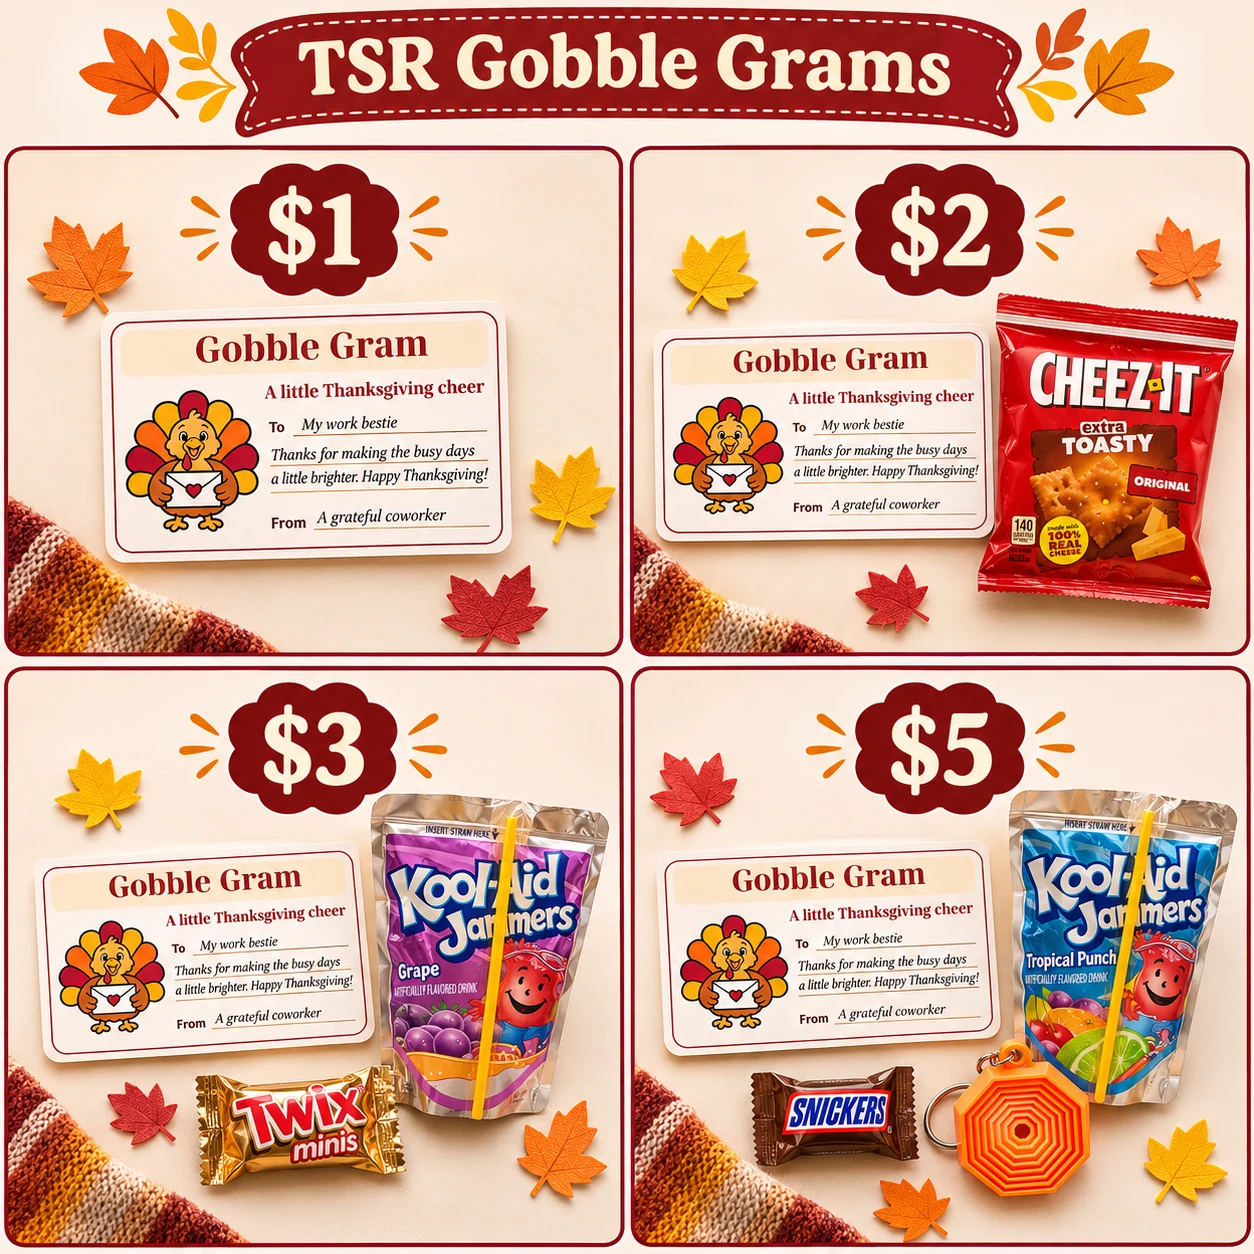
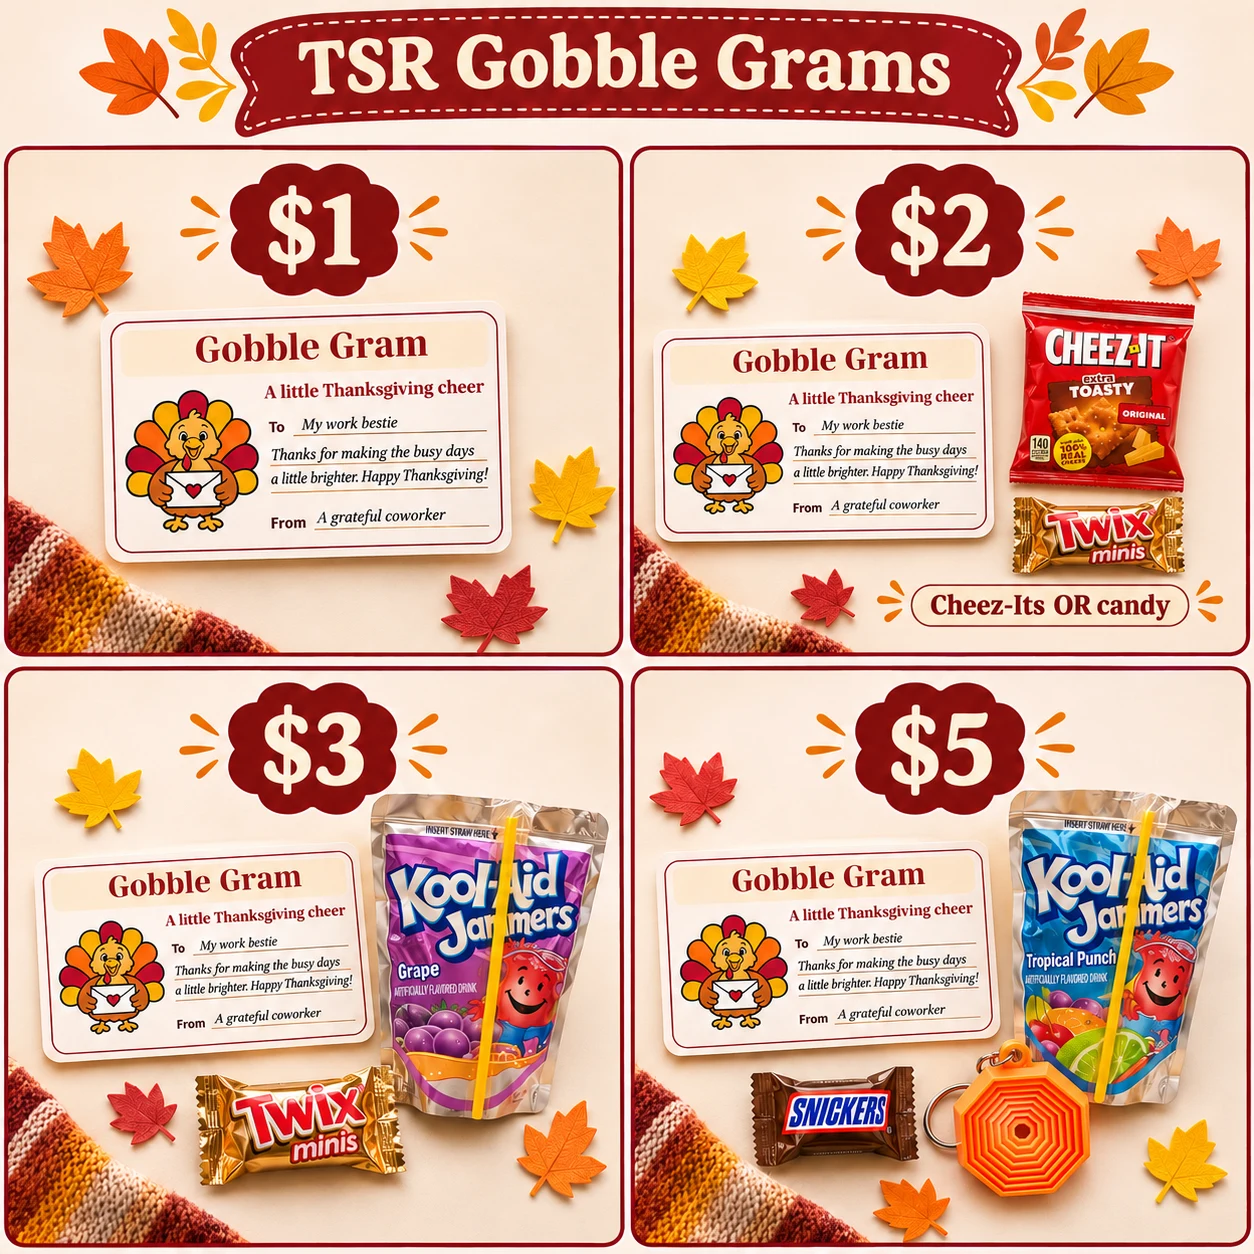
Show Cheez-Its OR candy in approved $2 preview and wording

diff --git a/index.html b/index.html
@@ -56,15 +56,15 @@
 </style>
 <h2>Choose your Gobble Gram</h2>
 <figure class="tsr-approved-preview" style="margin:20px 0 28px">
-<a href="tsr-approved-gobble-preview.webp" target="_blank" rel="noopener" aria-label="Open the approved Gobble Gram package illustration full size">
-<img src="tsr-approved-gobble-preview.webp" width="1254" height="1254" alt="Illustrated Gobble Gram examples: $1 message, $2 message and Cheez-Its, $3 message with candy and a drink, and $5 message with candy, drink and a 3D printed keychain." style="display:block;width:100%;height:auto;max-width:1000px;margin:auto;border-radius:20px" loading="eager">
+<a href="tsr-approved-gobble-preview.webp?v=2" target="_blank" rel="noopener" aria-label="Open the approved Gobble Gram package illustration full size">
+<img src="tsr-approved-gobble-preview.webp?v=2" width="1254" height="1254" alt="Illustrated Gobble Gram examples: $1 message, $2 message with a choice of Cheez-Its or candy, $3 message with candy and a drink, and $5 message with candy, drink and a 3D printed keychain." style="display:block;width:100%;height:auto;max-width:1000px;margin:auto;border-radius:20px" loading="eager">
 </a>
 <figcaption style="font-size:.9rem;line-height:1.5;text-align:center;margin-top:12px">AI-illustrated package examples based on our product photos, not exact photographs of finished orders. Actual items and packaging may vary. Decorative leaves and fabric are not included. Tap the picture to view it larger.</figcaption>
 </figure>
 <p>Start with a kind message, then add a little happiness. Choose your items in the order form; availability may vary.</p>
 <div class="tsr-package-grid">
 <article class="tsr-package"><h3>$1 · A message to make their day</h3><div class="tsr-message">“You make our days brighter!”</div><p>A cute, personalized Gobble Gram message. No treat included.</p><p class="tsr-note">Residents can send a message free.</p></article>
-<article class="tsr-package"><h3>$2 · Message + a little treat</h3><div class="tsr-message">“You’re amazing. Here’s a little happy!”</div><p>Your message plus a candy, sucker, or available non-candy snack.</p></article>
+<article class="tsr-package"><h3>$2 · Message + a little treat</h3><div class="tsr-message">“You’re amazing. Here’s a little happy!”</div><p>Your message plus your choice of Cheez-Its OR candy. Choose your preference in the order form.</p></article>
 <article class="tsr-package"><h3>$3 · Message + treat + drink</h3><div class="tsr-message">“A sweet thank-you and a little sip!”</div><p>A personal message, a treat, and one drink. Choose your preferences in the order form.</p><p class="tsr-note">One drink, not a 3D print, is included at this tier.</p></article>
 <article class="tsr-package"><h3>$5 · Message + treat + drink + 3D print</h3><div class="tsr-message">“You’re one of a kind!”</div><p>A personal message, a treat, one drink, and one fun 3D print. Choose from the available options.</p></article>
 </div>
